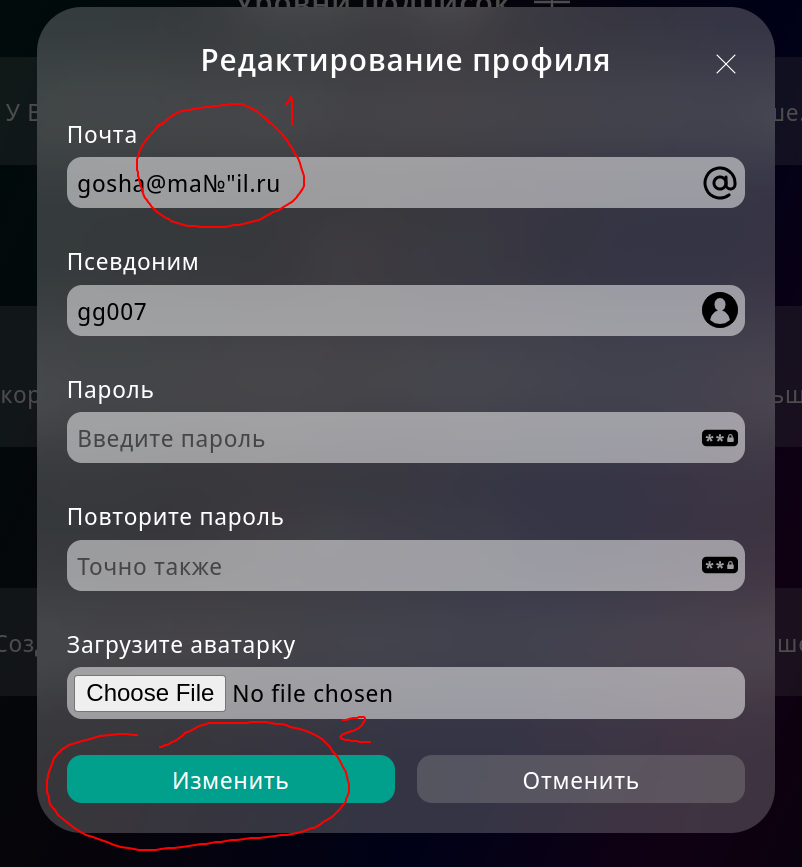
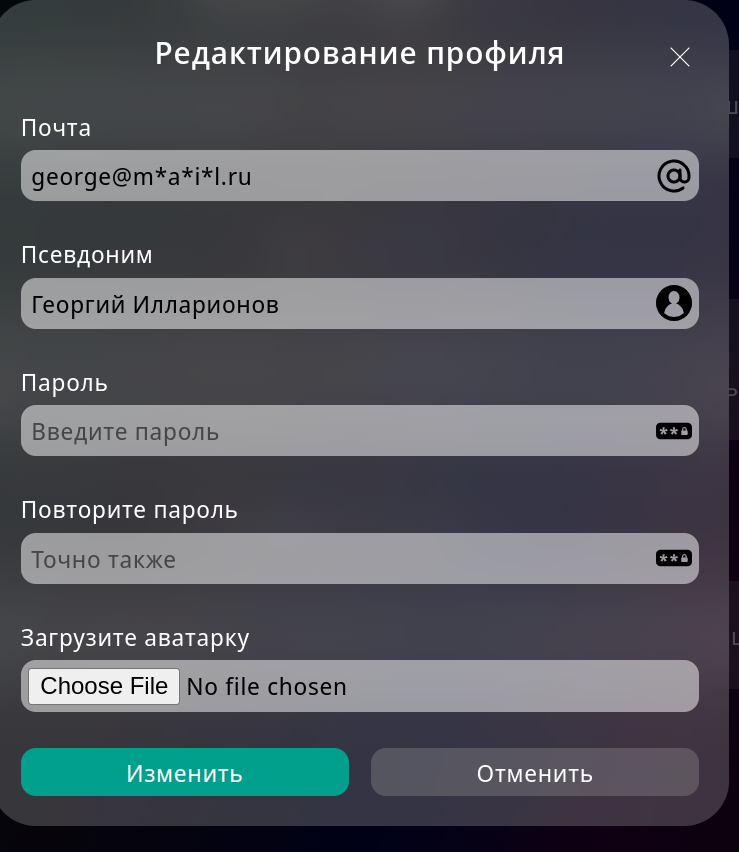
Fix email tests

Changed region(s): [[0.0, 0.0, 1.0, 1.0], [0.9026, 0.061, 0.9337, 0.0915]]

diff --git a/vdonate.md b/vdonate.md
@@ -188,16 +188,18 @@
 13. Возможно установить очень короткий email (a@b.c) ✅
 14. Попытка адрес без собаки выводит сообщение об ошибке ✅
 15. Попытка ввести почту без точки в домене выводит сообщение об ошибке✅
-16. Возможно ввести почту со спецсимволами в домене ✅
+16. Возможно ввести почту с разрешенными спецсимволами ✅
+    > Допустимые символы: прописные буквы (A-Z), строчные буквы (az), цифры (0-9), точка (.), апостроф ('), тире (-), решётка (#), собака (@), процент (%), амперсанд (&), косая черта) (/) и пробелы. Никакие другие символы не допускаются.
+17. Невозможно ввести почту с запрещенными спецсимволами ❌
     > **[Баг]**
-    > При попытке установить адрес, по типу example@domain#&^.ru запрос уходит на сервер
+    > При попытке установить адрес, по типу ```george@m*a*i*l.ru``` запрос уходит на сервер и ошибки не возникает
     > 
     > Ожидаемый результат: Сообщение о невалидном адресе
     >
     > Фактический результат: Запрос ушёл, сообщение об ошибке не вывелось.
     > ![](imgs/edit_email_symbs.png)
-17. Самбит пустого поля с email не изменяет email ✅
-18. Подсказка при наведении на инпут отображается ✅
+18. Самбит пустого поля с email не изменяет email ✅
+19. Подсказка при наведении на инпут отображается ❌
     > **[БАГ]**
     > При наведении на поле для почты, появляется подсказка, которая указывает на структуру адреса.
     >
@@ -205,8 +207,8 @@
     >
     > Фактический результат: Сообщение в подсказке несодержательное
     > ![](imgs/edit_email_placeholder.png)
-19. pop-up при отправке невалидных данных показывается ✅
-17. Красная рамка вокруг инпута при отправке невалидных данных отображается ✅
+20. pop-up при отправке невалидных данных показывается ✅
+21. Красная рамка вокруг инпута при отправке невалидных данных отображается ✅
 
 #### Тестирование поля для никнейма:
 1. Никнейм может содержать цифры ✅
